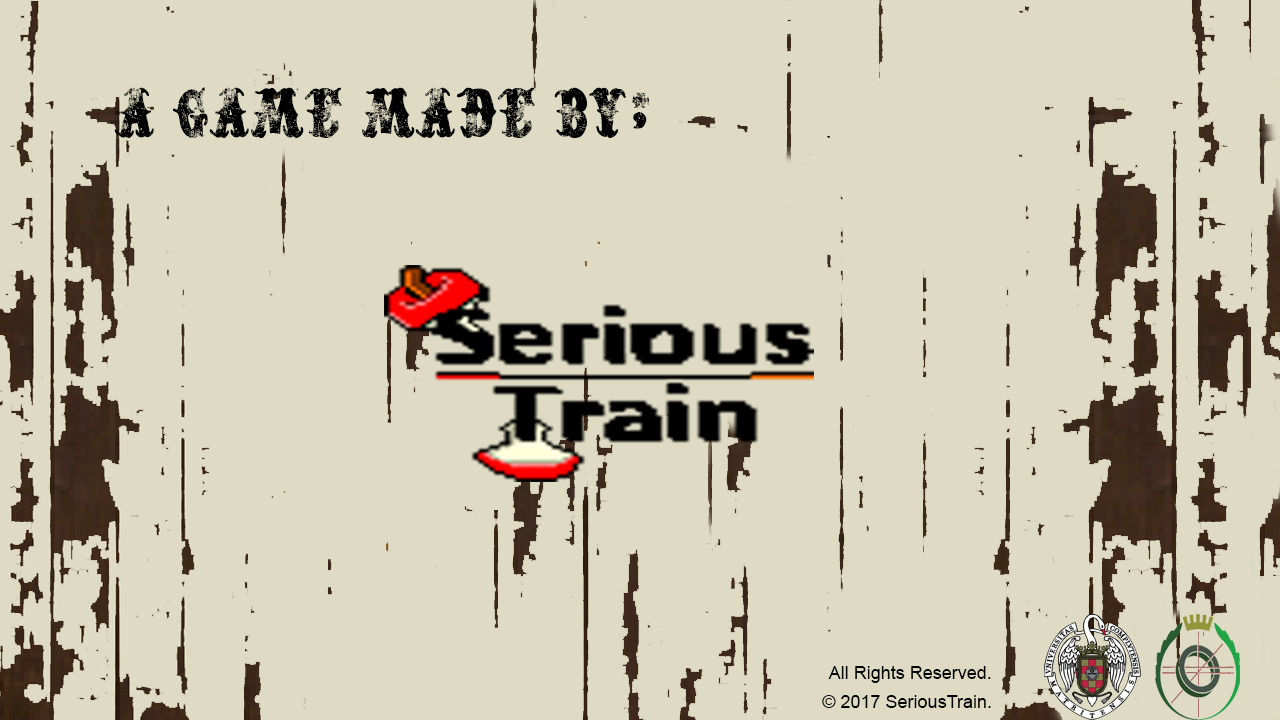
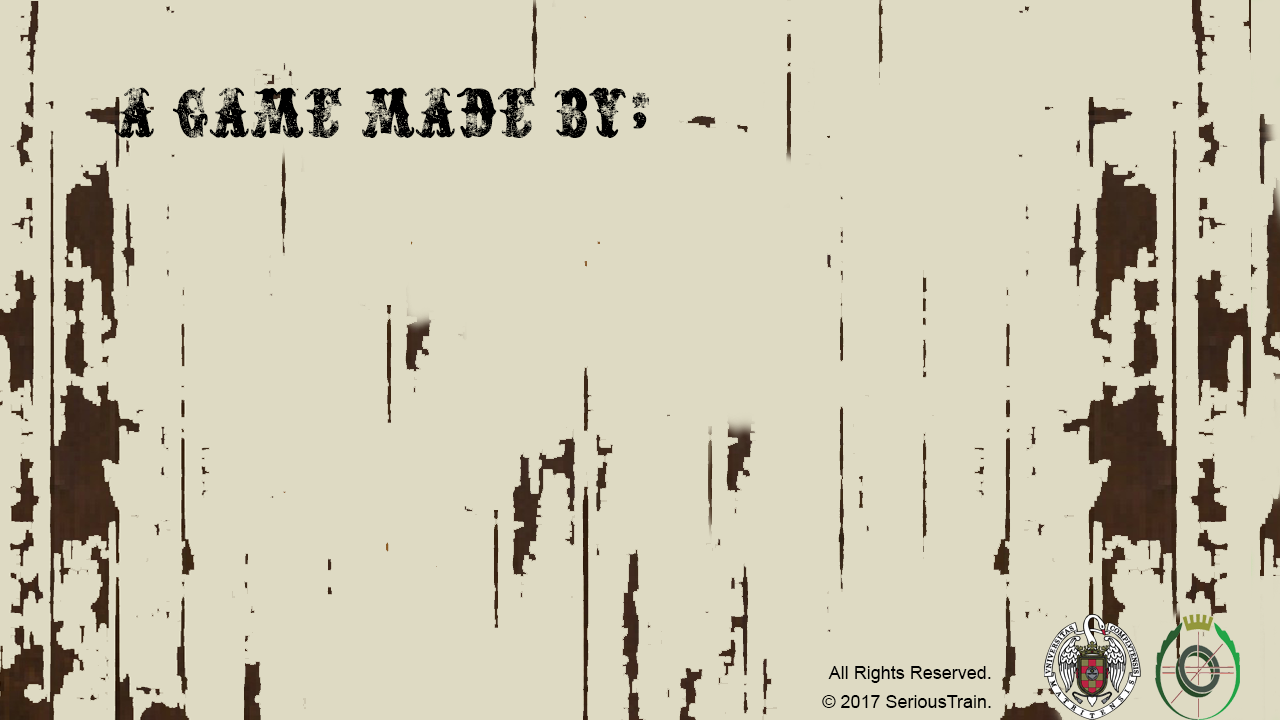
pantalla de inicio acabada

Changed region(s): [[0.2812, 0.3667, 0.6562, 0.6722]]

diff --git a/Juego/NonSolum/Game.h b/Juego/NonSolum/Game.h
@@ -24,13 +24,13 @@ public:
 		TControlEng, TControlEsp, TEnemigoD, TEnemigoG, TCanon, TTick, THud, TTrayecto, THud2, TVagonReg, TDesierto,
 		TPradera, TVagonEscudo, TOscuridad, TTocho, TInvisible, TEscopetaN, TFrancoN, TMetralletaN, TMinigunN, TRevolverN,
 	    TSlender, TExplosion, TLaserRoto, TEscudoRoto, TFuegoRoto, TAutoRoto, TVagonSuc, TVacioR, TSucR, TRegR, 
-		TCanonN, TBotonOsc, TPausa, TBala2, THistoria1, TFondoIni};
+		TCanonN, TBotonOsc, TPausa, TBala2, THistoria1, TFondoIni, TLogo, TSangre};
 	enum Enemigo_t { Normal, Rapido, Tank, Enano, Invisible, Slender, Tocho, Boss/*...*/ };
 	enum Vagon_t { Locom, Vacio, Automatico, Laser, Lanzallamas, Escudo, Recuperador, Succionador/*...*/ };
 	enum Bala_t { BalaEnem, Piedra, Rayo, Fuego, Escopeta, E1, E2, Pistola, Sniper, Metralleta, Minigun, Canon, BalaEnemGorda/*...*/ };
 	enum Boton_t { Comprar, Jugar, Recolocar, Salir, Supervivencia, Historia, Spanish, English, Volver, Controles, Extrem, Desb /*...*/ };
 	enum EnemyDmg_t { Simple, Explosion, Bala };
-	enum Hud_t { Tick, Hud1, Trayecto, Tren, Fondo, BotonOsc};
+	enum Hud_t { Tick, Hud1, Trayecto, Tren, Fondo, BotonOsc, Logo, Sangre};
 	enum Fondo_t { Control, MenuP, Win, Lose, Tienda, Pause, Historia1, FondoInicio};
 	
 	std::string chooseText(string textArr[]);
@@ -90,7 +90,7 @@ private:
 
 	SDL_Event e;
 
-	std::string ntexturas[67]; 
+	std::string ntexturas[69]; 
 	
 
 	bool initSDL(); //ventana de render SDL (pantalla)

diff --git a/Juego/NonSolum/PantallaInicio.cpp b/Juego/NonSolum/PantallaInicio.cpp
@@ -5,7 +5,11 @@
 PantallaInicio::PantallaInicio(Game* juego) : Estado(juego)
 {
 	ptsjuego = juego;
+
 	fondo = new Hud(ptsjuego, NULL, 0, 0, Game::Hud_t::Fondo, Game::Fondo_t::FondoInicio);
+	logo = new Hud(ptsjuego, NULL, 600, 400, Game::Hud_t::Logo, Game::Fondo_t::FondoInicio);
+	sangre = new Hud(ptsjuego, NULL, 280, 150, Game::Hud_t::Sangre, Game::Fondo_t::FondoInicio);
+
 	initLibraries();
 	iniSound = new Sound;
 	iniSound->playMusic("../sounds/iniSound.mp3",-1,17);
@@ -14,12 +18,16 @@ PantallaInicio::PantallaInicio(Game* juego) : Estado(juego)
 
 void PantallaInicio::draw() {
 	fondo->draw();
+	if (cont >= 5000) sangre->draw();
+	logo->draw();
+	
 	Estado::draw();
 }
 
 void PantallaInicio::update(Uint32 delta) {
+	logo->update(delta);
 	cont+= delta;
-	if (cont >= 5000) {
+	if (cont >= 6000) {
 		iniSound->stopMusic();
 		ptsjuego->sound->playMusic("../sounds/musicaMenuP.mp3", -1, 17);
 		ptsjuego->estados.push(new Menu(ptsjuego));

diff --git a/Juego/NonSolum/Hud.cpp b/Juego/NonSolum/Hud.cpp
@@ -71,11 +71,42 @@ Hud::Hud(Game* juego, Play* pl, float x, float y, Game::Hud_t t, Game::Fondo_t f
 		alto = 90;
 		ancho = 200;
 		break;
+	case Game::Logo:
+		Ttextura = Game::Texturas_t::TLogo;
+		alto = 1;
+		ancho = 1;
+		break;
+	case Game::Sangre:
+		Ttextura = Game::Texturas_t::TSangre;
+		alto = 400;
+		ancho = 600;
+		break;
 	default:
 		break;
 	}	
 }
 
-void Hud::update(Uint32 delta){
-	pos.y = 280 - ((230 / p->emax) *p->getKilled());
+void Hud::update(Uint32 delta) {
+	switch (tipo)
+	{
+	case Game::Tren: pos.y = 280 - ((230 / p->emax) *p->getKilled());
+		break;
+	case Game::Logo: 
+		if (alto <= 150) {
+			if (cont >= 25) {
+				alto++;
+				ancho += 2;
+
+				pos.y--;
+				pos.x--;
+				cont = 0;
+			}
+			else cont += delta;
+		}		
+		break;
+	default:
+		break;
+	}
 }
+	
+	

diff --git a/Juego/NonSolum/Game.cpp b/Juego/NonSolum/Game.cpp
@@ -141,7 +141,7 @@ SDL_Renderer* Game::getRender()const {
 }
 
 void Game::initMedia() {
-	for (unsigned int i = 0; i < 67 /*magic namber dude*/; i++) {
+	for (unsigned int i = 0; i < 69 /*magic namber dude*/; i++) {
 		texts.emplace_back(new Texturas);
 		texts[i]->load(getRender(), ntexturas[i]);
 	}

diff --git a/Juego/NonSolum/PantallaInicio.h b/Juego/NonSolum/PantallaInicio.h
@@ -12,9 +12,11 @@ public:
 	virtual ~PantallaInicio() {};
 	void draw();
 	void update(Uint32 delta);
-	void onClick() { cont = 5000; }
+	void onClick() { cont = 6000; }
 private:
 	Hud* fondo;
+	Hud* logo;
+	Hud* sangre;
 	int cont = 0;
 	Sound* iniSound;
 	bool initLibraries();

diff --git a/Juego/NonSolum/Hud.h b/Juego/NonSolum/Hud.h
@@ -15,6 +15,7 @@ private:
 	Game::Hud_t tipo;
 	Game::Fondo_t fondo;
 	Play* p;
+	int cont = 0;
 };
 
 #endif
